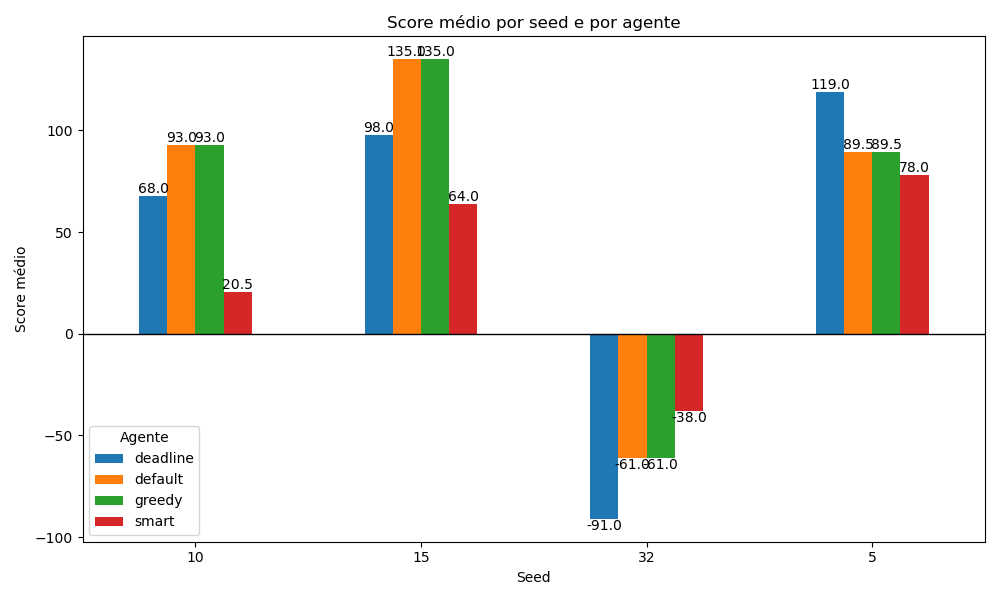
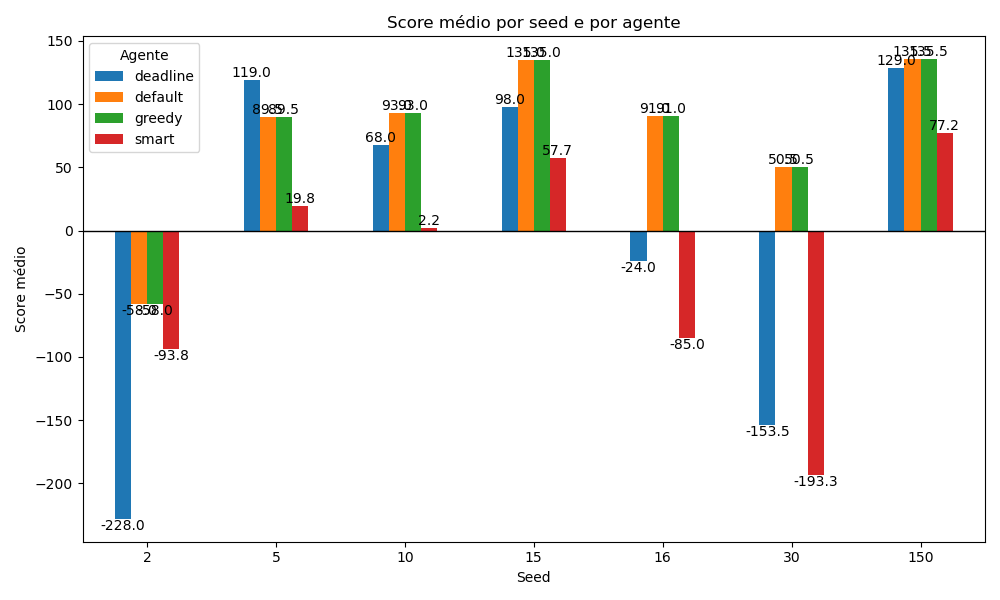
feat: edit analysis code + generated graphs (
poor performance

diff --git a/analises_results.py b/analises_results.py
@@ -9,9 +9,6 @@ os.makedirs(output_dir, exist_ok=True)
 # Carregar os resultados
 df = pd.read_csv("resultados.csv")
 
-# Garantir que a seed é string
-df["seed"] = df["seed"].astype(str)
-
 # ==============================
 # 1) Score médio por agente
 # ==============================
@@ -23,6 +20,7 @@ plt.title("Score médio por agente (todas as seeds e configs)")
 plt.ylabel("Score médio")
 plt.xlabel("Agente")
 plt.xticks(rotation=0)
+ax.axhline(0, color="black", linewidth=1)
 
 # Rótulos em cima das barras
 ax.bar_label(ax.containers[0], fmt="%.1f")
@@ -32,10 +30,17 @@ plt.savefig(os.path.join(output_dir, "1score_medio_por_agente.png"))
 plt.close()
 
 # ==============================
-# 2) Score médio por agente e seed
+# 2) Score médio por agente e seed (ordenado por seed crescente)
 # ==============================
 plt.figure(figsize=(10,6))
-ax = df.groupby(["seed","agent"])["score"].mean().unstack().plot(kind="bar", ax=plt.gca())
+
+scores_by_seed = df.groupby(["seed","agent"])["score"].mean().unstack()
+
+# garantir ordenação numérica da seed
+scores_by_seed.index = scores_by_seed.index.astype(int)
+scores_by_seed = scores_by_seed.sort_index()
+
+ax = scores_by_seed.plot(kind="bar", ax=plt.gca())
 plt.title("Score médio por seed e por agente")
 plt.ylabel("Score médio")
 plt.xlabel("Seed")
@@ -60,6 +65,7 @@ plt.title("Impacto do Sticky Target no Score médio")
 plt.ylabel("Score médio")
 plt.xlabel("Agente")
 plt.xticks(rotation=0)
+ax.axhline(0, color="black", linewidth=1)
 
 # Rótulos
 for container in ax.containers:
@@ -70,7 +76,7 @@ plt.savefig(os.path.join(output_dir, "3impacto_sticky.png"))
 plt.close()
 
 # ==============================
-# 4) Smart: tuning de parâmetros
+# 4) Smart: tuning de parâmetros (mantém ordem do agrupamento)
 # ==============================
 smart_df = df[df["agent"]=="smart"].copy()
 if not smart_df.empty:
@@ -82,6 +88,7 @@ if not smart_df.empty:
     plt.ylabel("Score médio")
     plt.xlabel("(max_carry, urgent_threshold)")
     plt.xticks(rotation=0)
+    ax.axhline(0, color="black", linewidth=1)
 
     # Rótulos
     ax.bar_label(ax.containers[0], fmt="%.1f")
